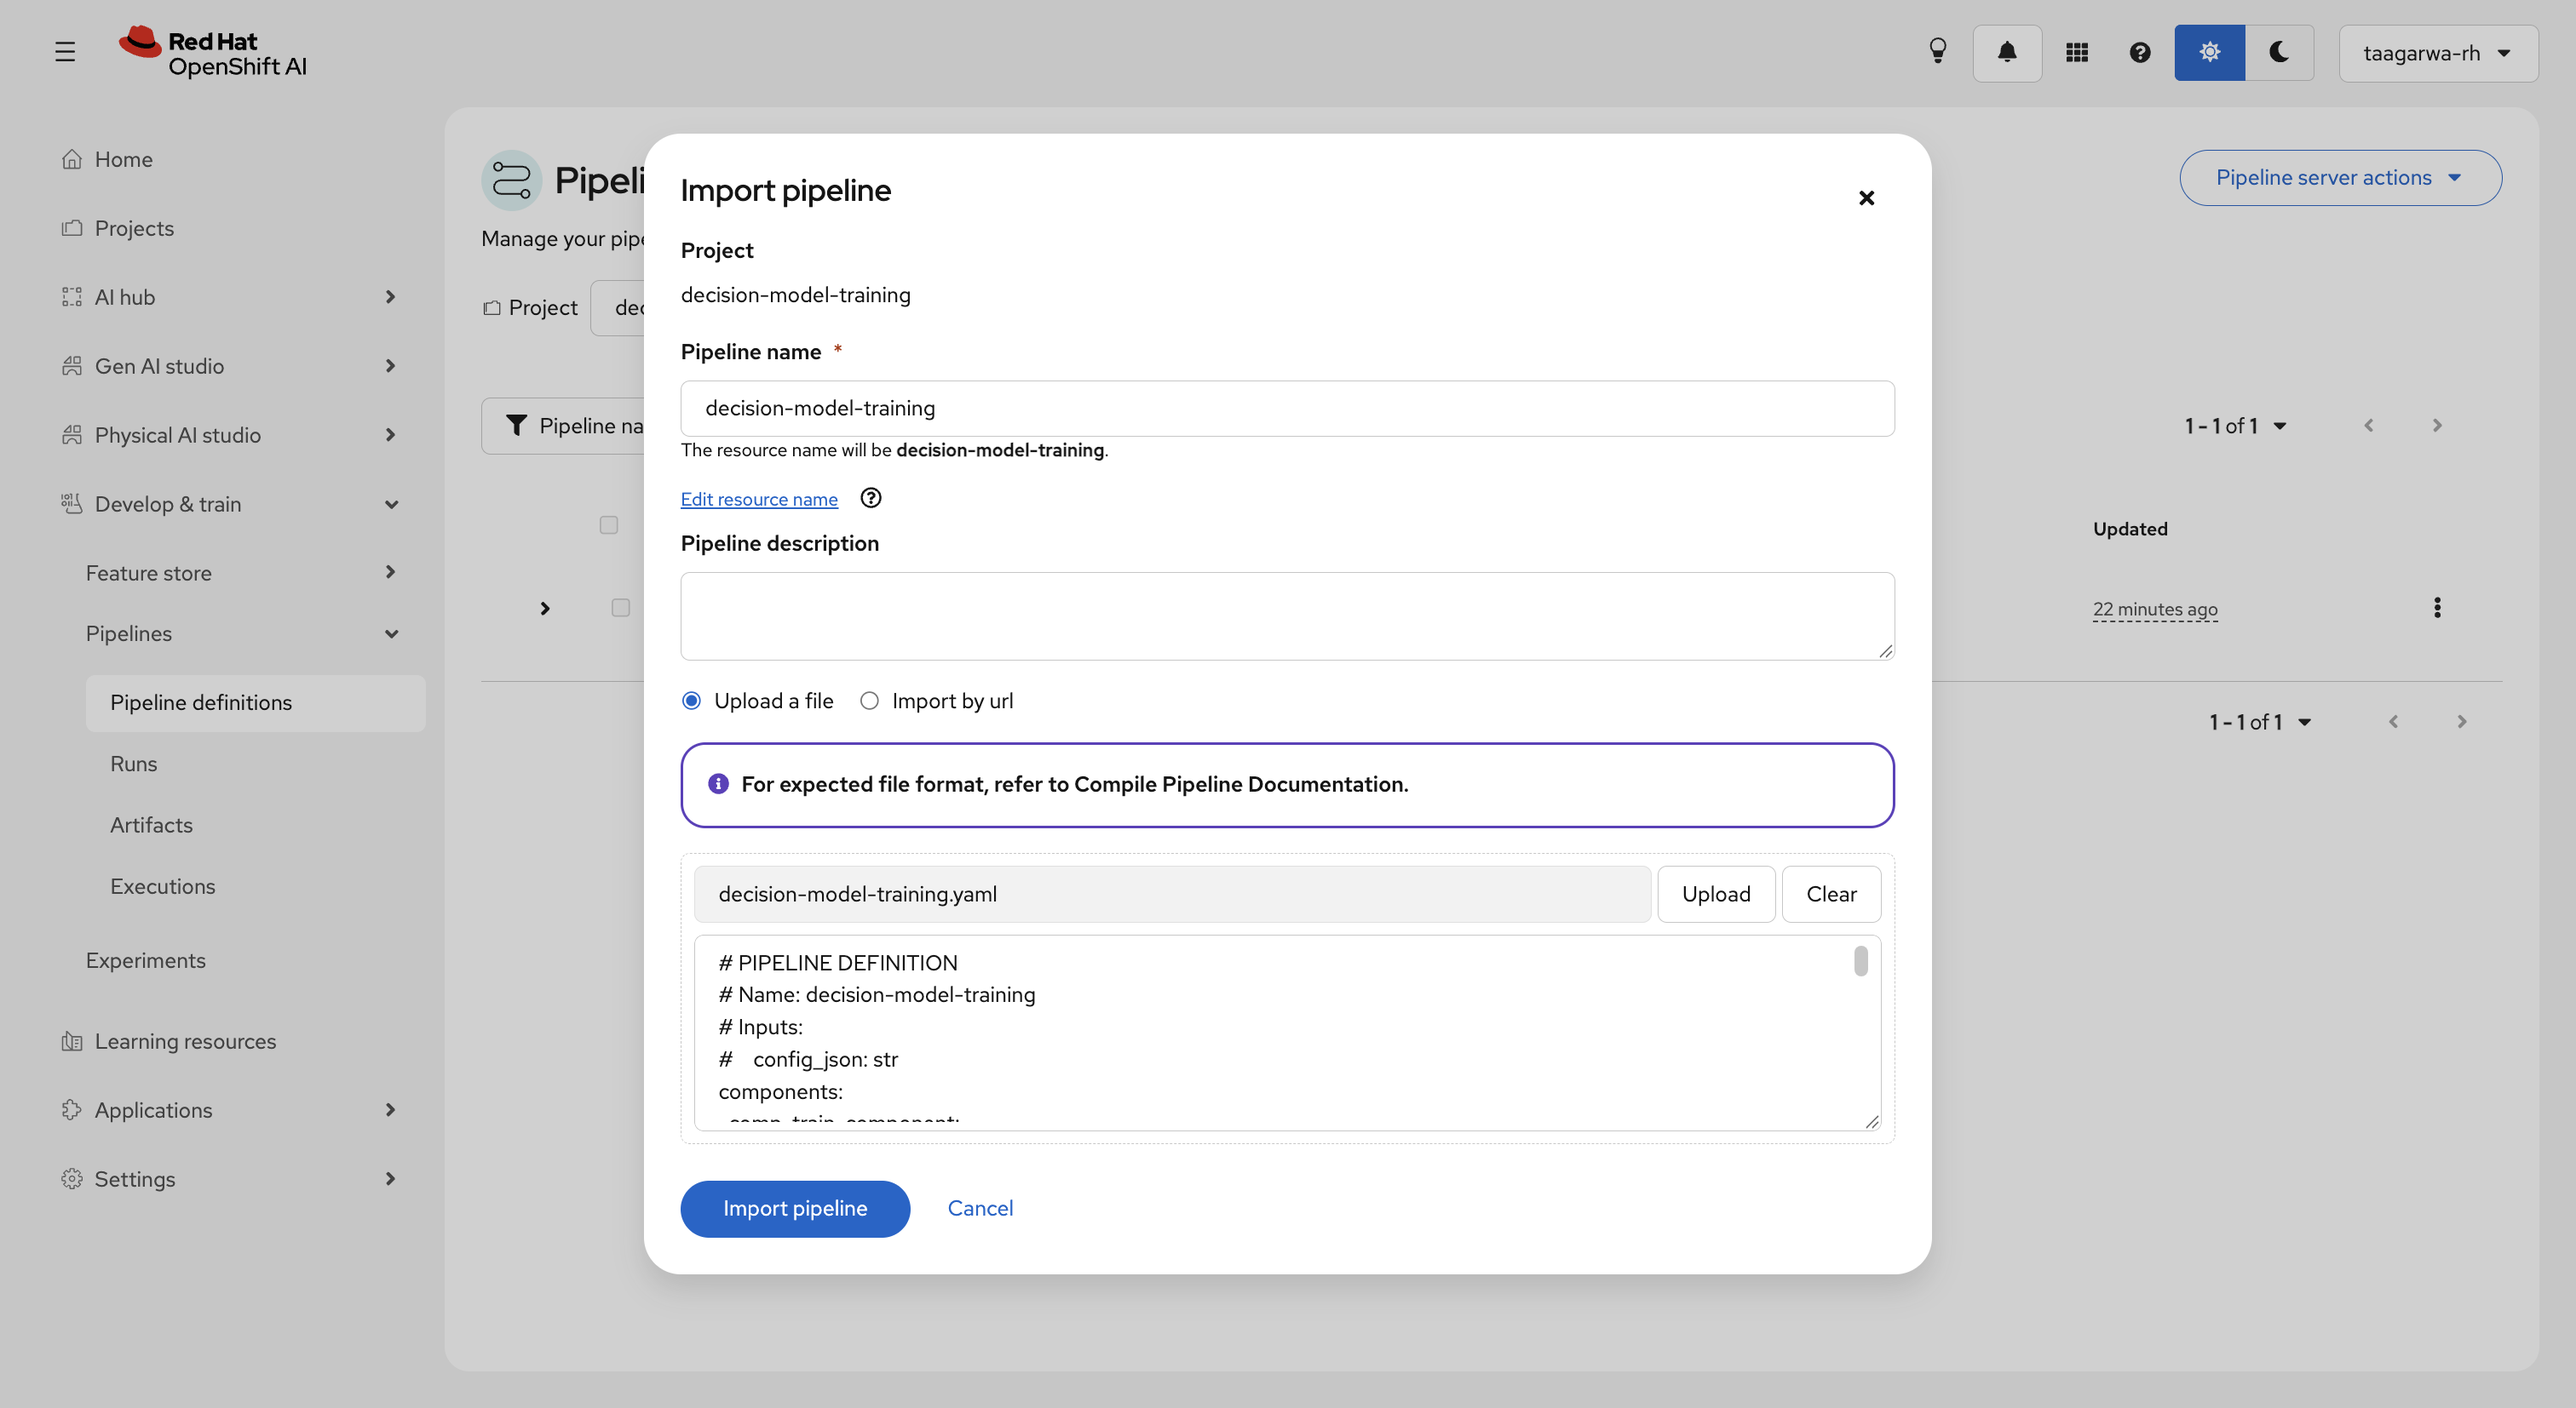
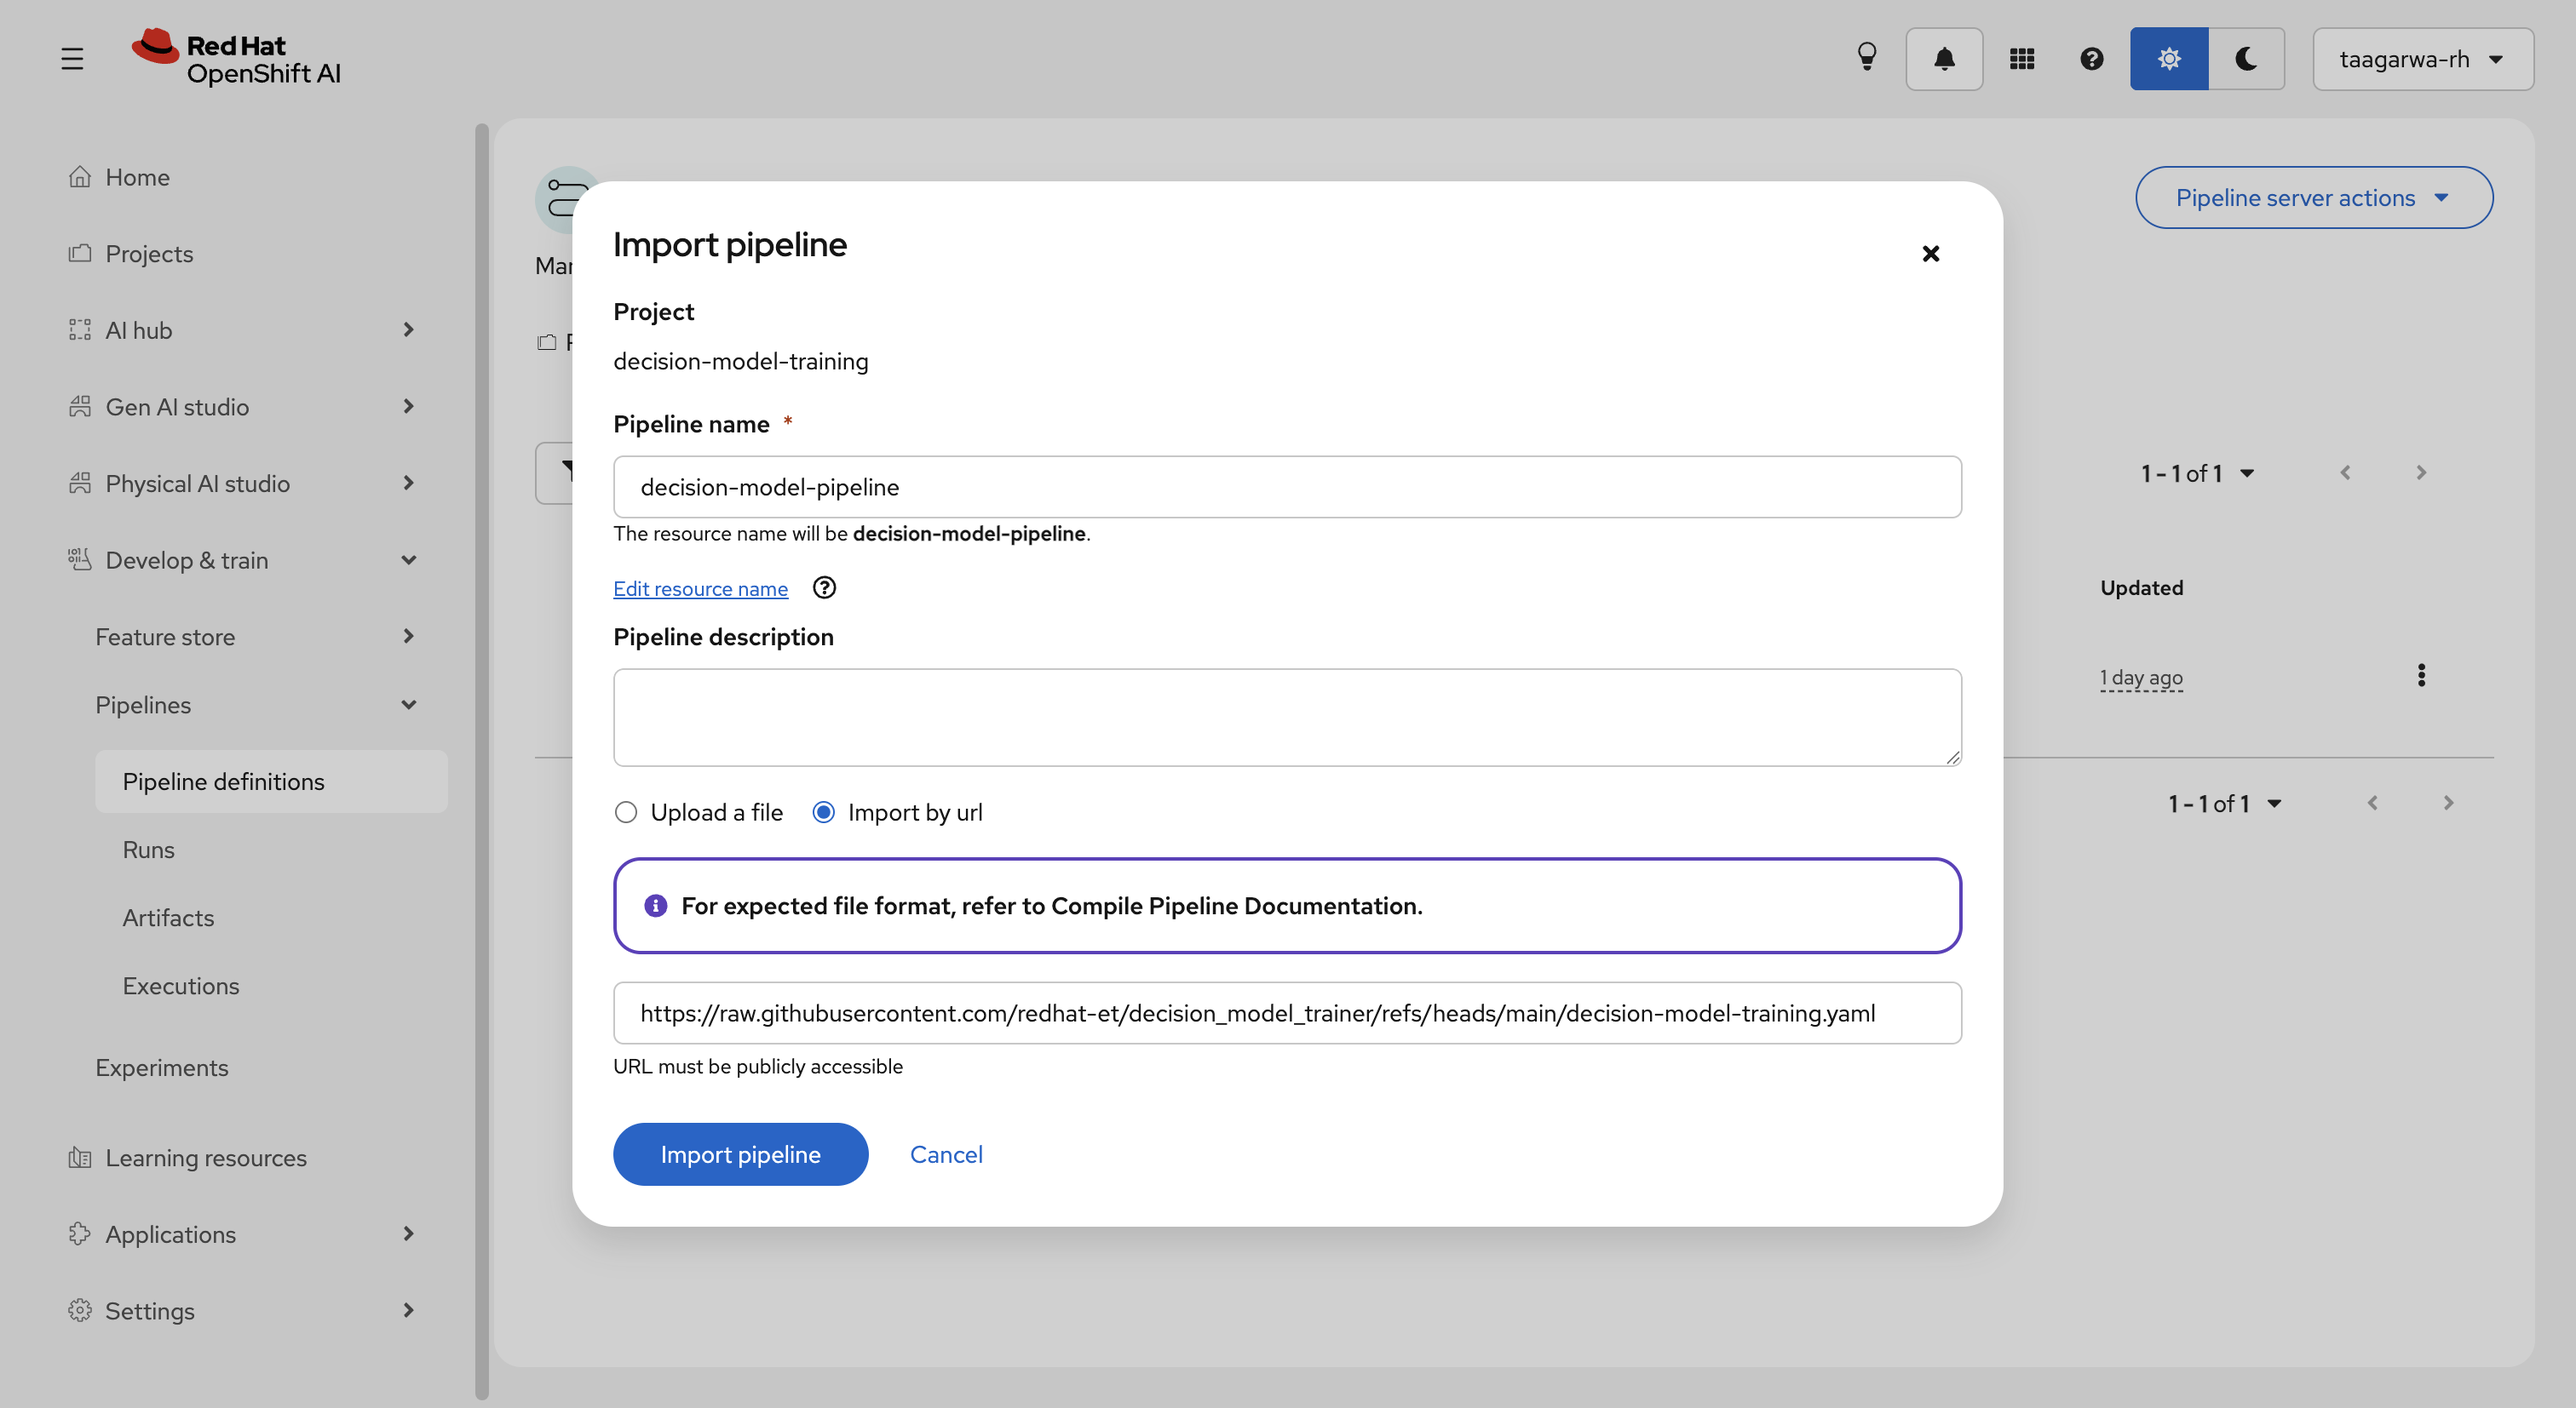
📝 Add instructions for importing pipeline via url

diff --git a/README.md b/README.md
@@ -44,10 +44,10 @@ Check out [src/decision_model_trainer/datasets/openai_moderation_dataset.py](./s
 
 Import the pipeline [`decision-model-training.yaml`](./decision-model-training.yaml) to the RHOAI Data Science Pipelines server as described in the [RHOAI documentation](https://docs.redhat.com/en/documentation/red_hat_openshift_ai_self-managed/3.4/html/working_with_ai_pipelines/managing-ai-pipelines_ai-pipelines#importing-a-pipeline_ai-pipelines):
 
-1. Copy the content from [`decision-model-training.yaml`](./decision-model-training.yaml) to a local file, e.g. `pipeline.yaml`.
-2. Go to the RHOAI dashboard and navigate to "Develop & Train" > "Pipelines" > "Pipeline Definitions".
-3. Click "Import pipeline".
-4. Name the pipeline (e.g. `decision-model-training`) and upload the pipeline file.
+1. Go to the RHOAI dashboard and navigate to "Develop & Train" > "Pipelines" > "Pipeline Definitions".
+2. Click "Import pipeline".
+3. Name the pipeline (e.g. `decision-model-training`) 
+4. Click "Import by url" and paste `https://raw.githubusercontent.com/redhat-et/decision_model_trainer/refs/heads/main/decision-model-training.yaml` into the box.
 5. Click "Import Pipeline" to import the pipeline.
 
 ![](./docs/img/rhoai_pipeline_import.png)
